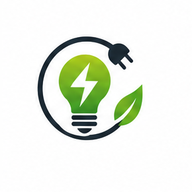
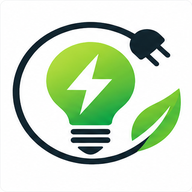
Add legal pages and final branding

diff --git a/src/app/datenschutz/page.tsx b/src/app/datenschutz/page.tsx
@@ -1,0 +1,180 @@
+import type { Metadata } from "next";
+import Link from "next/link";
+
+import Footer from "@/components/Footer";
+import Header from "@/components/Header";
+
+export const metadata: Metadata = {
+  title: "Datenschutz",
+  description:
+    "Datenschutzerklärung von TinyTools Energy.",
+  alternates: {
+    canonical: "/datenschutz",
+  },
+};
+
+export default function DatenschutzPage() {
+  return (
+    <>
+      <Header />
+
+      <main className="mx-auto max-w-3xl px-5 py-16 sm:px-6">
+        <Link
+          href="/"
+          className="text-sm font-semibold text-green-600 hover:text-green-700"
+        >
+          ← Zurück zu TinyTools Energy
+        </Link>
+
+        <div className="mt-8">
+          <p className="text-sm font-semibold uppercase tracking-wider text-green-600">
+            Rechtliches
+          </p>
+
+          <h1 className="mt-3 text-4xl font-bold tracking-tight text-slate-900">
+            Datenschutz
+          </h1>
+
+          <p className="mt-4 leading-7 text-slate-600">
+            Informationen zur Verarbeitung personenbezogener Daten
+            bei der Nutzung von TinyTools Energy.
+          </p>
+        </div>
+
+        <div className="mt-12 space-y-10 text-slate-600">
+          <section>
+            <h2 className="text-xl font-bold text-slate-900">
+              Verantwortlicher
+            </h2>
+
+            <div className="mt-4 space-y-1 leading-7">
+              <p>Dan Florian</p>
+              <p>Traiskirchen</p>
+              <p>Österreich</p>
+              <p>
+                E-Mail:{" "}
+                <a
+                  href="mailto:dan.florian@gmx.at"
+                  className="font-medium text-green-600 hover:text-green-700"
+                >
+                  dan.florian@gmx.at
+                </a>
+              </p>
+            </div>
+          </section>
+
+          <section>
+            <h2 className="text-xl font-bold text-slate-900">
+              Nutzung des Stromkosten-Rechners
+            </h2>
+
+            <p className="mt-4 leading-7">
+              Die von dir im Stromkosten-Rechner eingegebenen Werte
+              werden zur Durchführung der Berechnung verwendet.
+            </p>
+
+            <p className="mt-3 leading-7">
+              TinyTools Energy verfügt derzeit über kein
+              Benutzerkonto und keine eigene Datenbank zur
+              dauerhaften Speicherung dieser Rechner-Eingaben.
+            </p>
+          </section>
+
+          <section>
+            <h2 className="text-xl font-bold text-slate-900">
+              Bereitstellung der Website
+            </h2>
+
+            <p className="mt-4 leading-7">
+              Beim Aufruf einer Website werden technisch notwendige
+              Informationen zwischen deinem Browser und der
+              Infrastruktur, über die die Website bereitgestellt wird,
+              übertragen. Dazu können insbesondere IP-Adresse,
+              Zeitpunkt des Zugriffs, angeforderte Seite sowie
+              technische Informationen zum verwendeten Browser und
+              Gerät gehören.
+            </p>
+
+            <p className="mt-3 leading-7">
+              Diese Verarbeitung dient der technischen Bereitstellung,
+              Sicherheit und Stabilität der Website.
+            </p>
+          </section>
+
+          <section>
+            <h2 className="text-xl font-bold text-slate-900">
+              Hosting
+            </h2>
+
+            <p className="mt-4 leading-7">
+              TinyTools Energy wird derzeit über Vercel bereitgestellt.
+              Im Rahmen der technischen Bereitstellung der Website
+              können Verbindungs- und Zugriffsdaten durch den
+              Hosting-Anbieter verarbeitet werden.
+            </p>
+          </section>
+
+          <section>
+            <h2 className="text-xl font-bold text-slate-900">
+              Cookies und Analyse
+            </h2>
+
+            <p className="mt-4 leading-7">
+              TinyTools Energy setzt derzeit keine eigenen
+              Analyse- oder Marketingdienste ein.
+            </p>
+
+            <p className="mt-3 leading-7">
+              Sollte TinyTools Energy künftig Analyse-, Marketing-
+              oder andere zusätzliche Dienste einsetzen, wird diese
+              Datenschutzerklärung entsprechend aktualisiert.
+            </p>
+          </section>
+
+          <section>
+            <h2 className="text-xl font-bold text-slate-900">
+              Kontaktaufnahme
+            </h2>
+
+            <p className="mt-4 leading-7">
+              Wenn du per E-Mail Kontakt aufnimmst, werden die von dir
+              übermittelten Angaben verarbeitet, soweit dies zur
+              Bearbeitung deiner Anfrage erforderlich ist.
+            </p>
+          </section>
+
+          <section>
+            <h2 className="text-xl font-bold text-slate-900">
+              Deine Rechte
+            </h2>
+
+            <p className="mt-4 leading-7">
+              Soweit die gesetzlichen Voraussetzungen erfüllt sind,
+              stehen dir insbesondere Rechte auf Auskunft,
+              Berichtigung, Löschung, Einschränkung der Verarbeitung
+              und gegebenenfalls Widerspruch gegen die Verarbeitung
+              sowie Datenübertragbarkeit zu.
+            </p>
+
+            <p className="mt-3 leading-7">
+              Außerdem besteht das Recht, sich bei der zuständigen
+              Datenschutzaufsichtsbehörde zu beschweren.
+            </p>
+          </section>
+
+          <section>
+            <h2 className="text-xl font-bold text-slate-900">
+              Stand
+            </h2>
+
+            <p className="mt-4 leading-7">
+              September 2026
+            </p>
+          </section>
+        </div>
+      </main>
+
+      <Footer />
+    </>
+  );
+}

diff --git a/src/app/impressum/page.tsx b/src/app/impressum/page.tsx
@@ -1,0 +1,121 @@
+import type { Metadata } from "next";
+import Link from "next/link";
+
+import Footer from "@/components/Footer";
+import Header from "@/components/Header";
+
+export const metadata: Metadata = {
+  title: "Impressum",
+  description:
+    "Impressum und Offenlegung für TinyTools Energy.",
+  alternates: {
+    canonical: "/impressum",
+  },
+};
+
+export default function ImpressumPage() {
+  return (
+    <>
+      <Header />
+
+      <main className="mx-auto max-w-3xl px-5 py-16 sm:px-6">
+        <Link
+          href="/"
+          className="text-sm font-semibold text-green-600 hover:text-green-700"
+        >
+          ← Zurück zu TinyTools Energy
+        </Link>
+
+        <div className="mt-8">
+          <p className="text-sm font-semibold uppercase tracking-wider text-green-600">
+            Rechtliches
+          </p>
+
+          <h1 className="mt-3 text-4xl font-bold tracking-tight text-slate-900">
+            Impressum & Offenlegung
+          </h1>
+
+          <p className="mt-4 leading-7 text-slate-600">
+            Informationen zum privaten Webprojekt TinyTools Energy.
+          </p>
+        </div>
+
+        <div className="mt-12 space-y-10 text-slate-600">
+          <section>
+            <h2 className="text-xl font-bold text-slate-900">
+              Medieninhaber und Betreiber
+            </h2>
+
+            <div className="mt-4 space-y-1 leading-7">
+              <p>Dan Florian</p>
+              <p>Traiskirchen</p>
+              <p>Österreich</p>
+              <p>
+                E-Mail:{" "}
+                <a
+                  href="mailto:dan.florian@gmx.at"
+                  className="font-medium text-green-600 hover:text-green-700"
+                >
+                  dan.florian@gmx.at
+                </a>
+              </p>
+            </div>
+          </section>
+
+          <section>
+            <h2 className="text-xl font-bold text-slate-900">
+              Projekt
+            </h2>
+
+            <p className="mt-4 leading-7">
+              TinyTools Energy ist derzeit ein privates,
+              nicht kommerzielles Webprojekt.
+            </p>
+
+            <p className="mt-3 leading-7">
+              Zweck des Projekts ist die Bereitstellung einfacher
+              Online-Werkzeuge und Informationen zur überschlägigen
+              Berechnung und zum besseren Verständnis von
+              Stromverbrauch und Stromkosten im Alltag.
+            </p>
+          </section>
+
+          <section>
+            <h2 className="text-xl font-bold text-slate-900">
+              Grundlegende Richtung
+            </h2>
+
+            <p className="mt-4 leading-7">
+              TinyTools Energy stellt neutrale Rechenhilfen und
+              allgemeine Informationen rund um Stromverbrauch,
+              Energiekosten und einen bewussten Umgang mit Energie
+              bereit.
+            </p>
+          </section>
+
+          <section>
+            <h2 className="text-xl font-bold text-slate-900">
+              Haftung für Inhalte
+            </h2>
+
+            <p className="mt-4 leading-7">
+              Die Inhalte und Berechnungen auf TinyTools Energy
+              dienen der allgemeinen Information und Orientierung.
+              Berechnete Werte sind Schätzungen und können vom
+              tatsächlichen Stromverbrauch und den tatsächlichen
+              Kosten abweichen.
+            </p>
+
+            <p className="mt-3 leading-7">
+              Für individuelle Entscheidungen sollten insbesondere
+              die Verbrauchswerte des konkreten Geräts, Messwerte
+              sowie der persönliche Stromtarif berücksichtigt werden.
+            </p>
+          </section>
+        </div>
+      </main>
+
+      <Footer />
+    </>
+  );
+}

diff --git a/src/components/Footer.tsx b/src/components/Footer.tsx
@@ -14,6 +14,10 @@ export default function Footer() {
               Einfache Werkzeuge, die dir helfen,
               Stromverbrauch und Energiekosten besser zu verstehen.
             </p>
+
+            <p className="mt-3 text-xs leading-5 text-slate-400">
+              Derzeit ein privates, nicht kommerzielles Projekt.
+            </p>
           </div>
 
           <div>
@@ -50,9 +54,20 @@ export default function Footer() {
               Rechtliches
             </p>
 
-            <div className="mt-3 flex flex-col gap-2 text-sm text-slate-300">
-              <span>Impressum folgt</span>
-              <span>Datenschutz folgt</span>
+            <div className="mt-3 flex flex-col gap-2 text-sm text-slate-500">
+              <Link
+                href="/impressum"
+                className="transition hover:text-slate-900"
+              >
+                Impressum
+              </Link>
+
+              <Link
+                href="/datenschutz"
+                className="transition hover:text-slate-900"
+              >
+                Datenschutz
+              </Link>
             </div>
           </div>
         </div>

diff --git a/src/app/sitemap.ts b/src/app/sitemap.ts
@@ -27,5 +27,17 @@ export default function sitemap(): MetadataRoute.Sitemap {
       priority: 0.9,
     },
     ...devicePages,
+    {
+      url: `${siteUrl}/impressum`,
+      lastModified: new Date(),
+      changeFrequency: "yearly",
+      priority: 0.2,
+    },
+    {
+      url: `${siteUrl}/datenschutz`,
+      lastModified: new Date(),
+      changeFrequency: "yearly",
+      priority: 0.2,
+    },
   ];
 }
